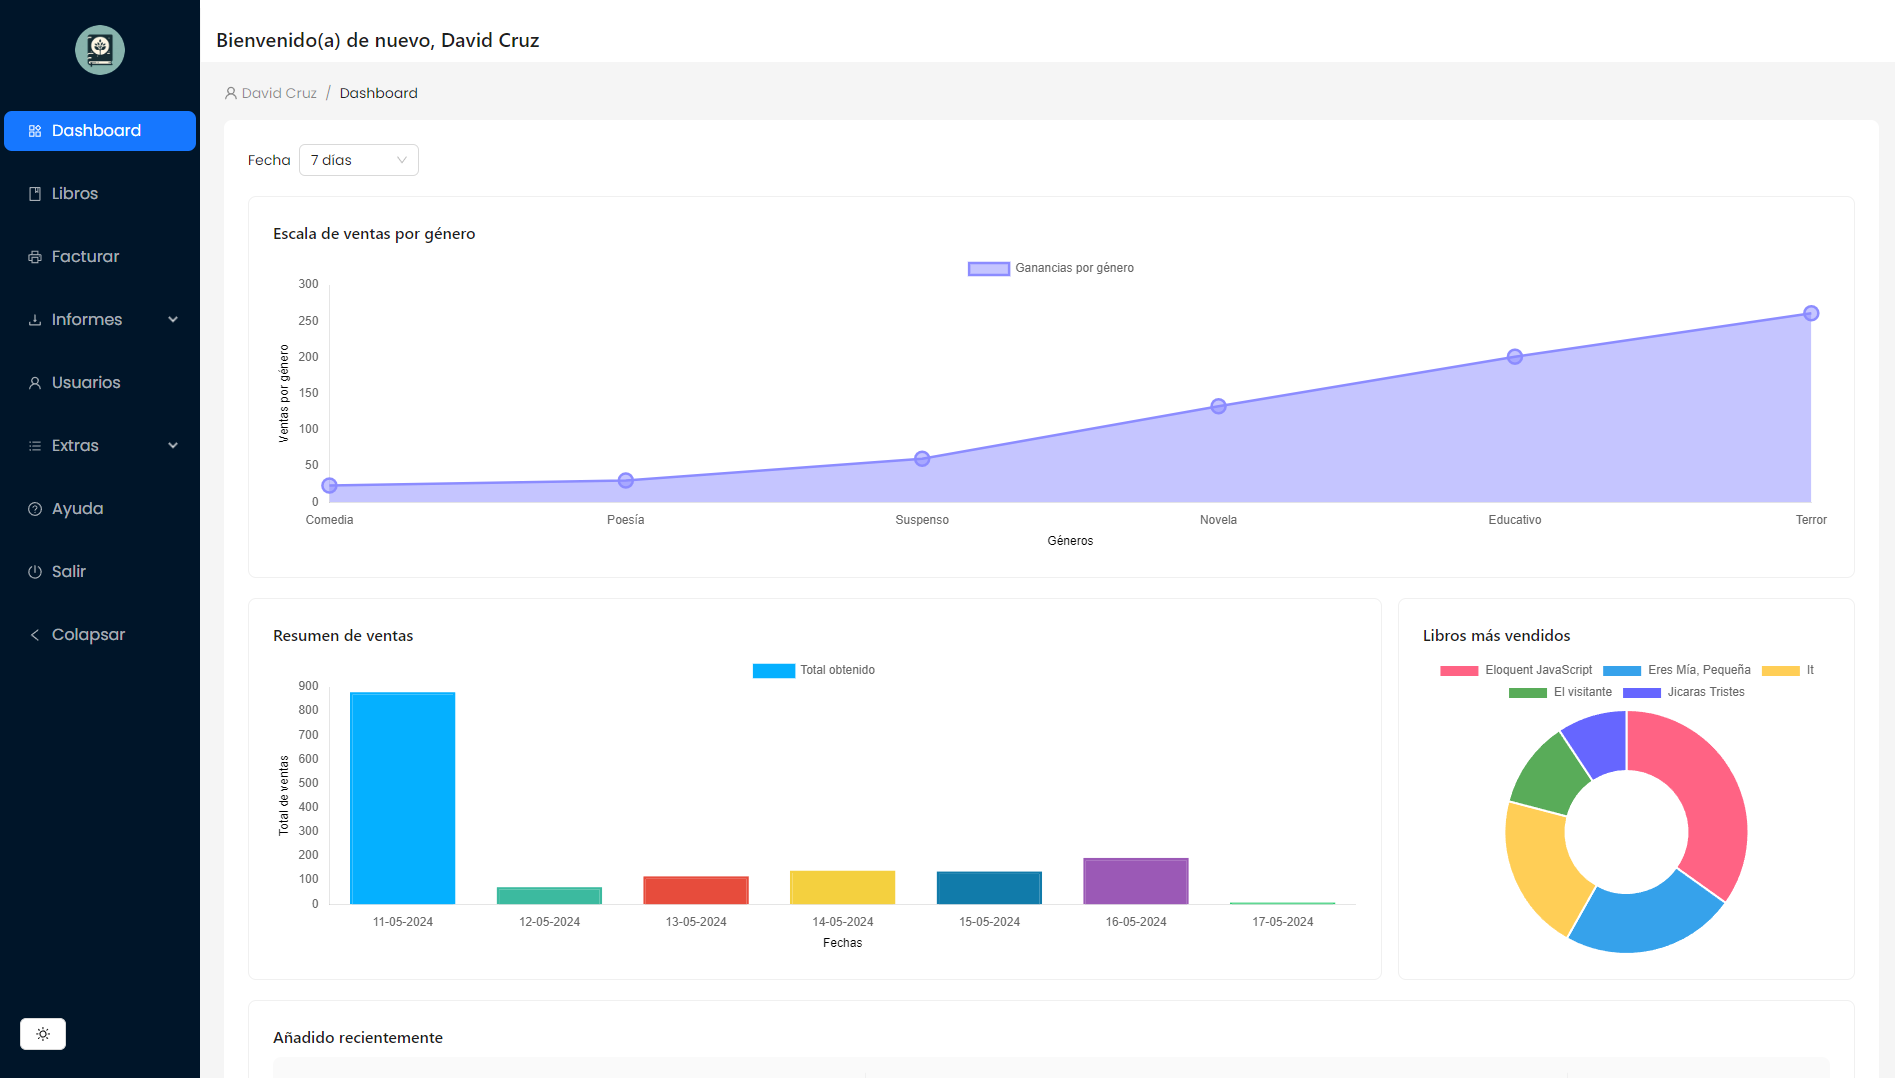
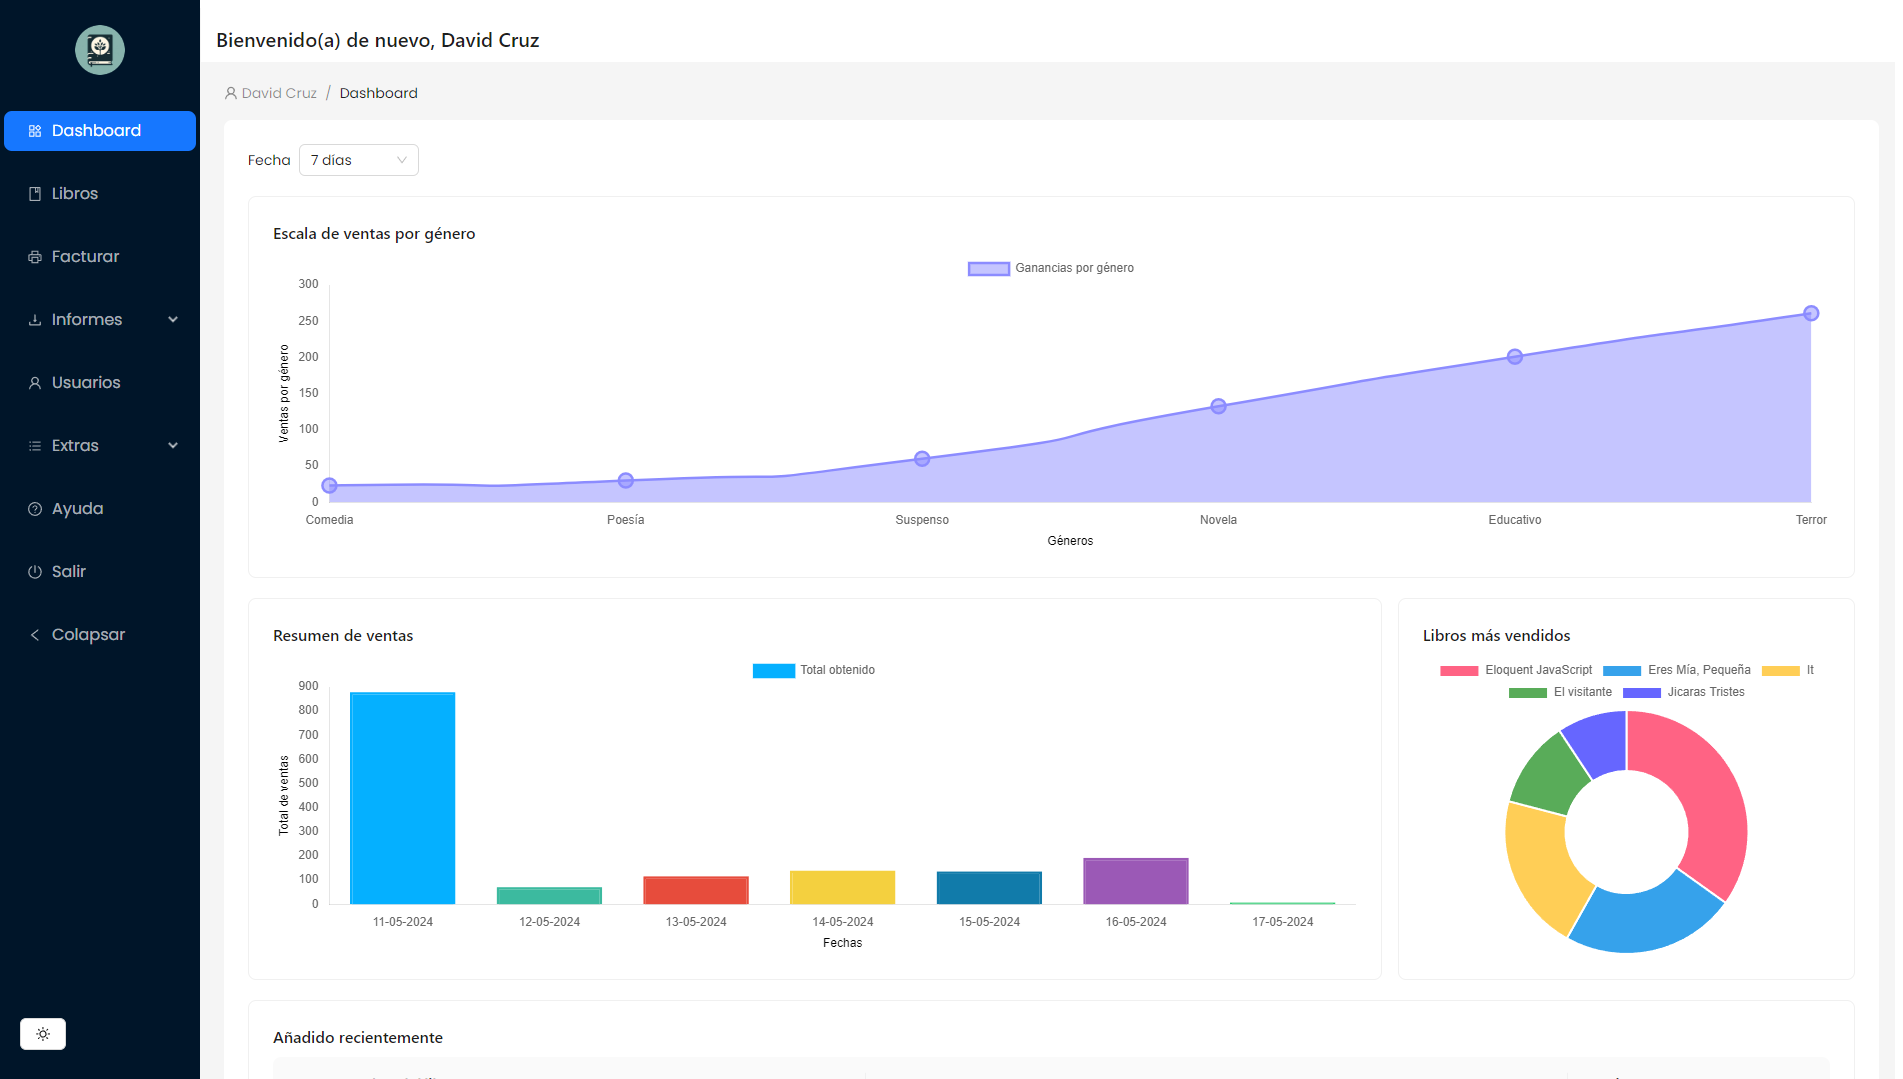
Frontend has been finished, dashboard and help center has been upgraded

diff --git a/frontend/src/components/dashboardGraphs/DashboardGraphs.jsx b/frontend/src/components/dashboardGraphs/DashboardGraphs.jsx
@@ -231,7 +231,8 @@ const DashboardGraphs = ({ period }) => {
                 fill: true,
                 pointStyle: "circle",
                 pointRadius: 7,
-                pointHoverRadius: 10
+                pointHoverRadius: 10,
+                tension: .8
               },
             ],
           };
